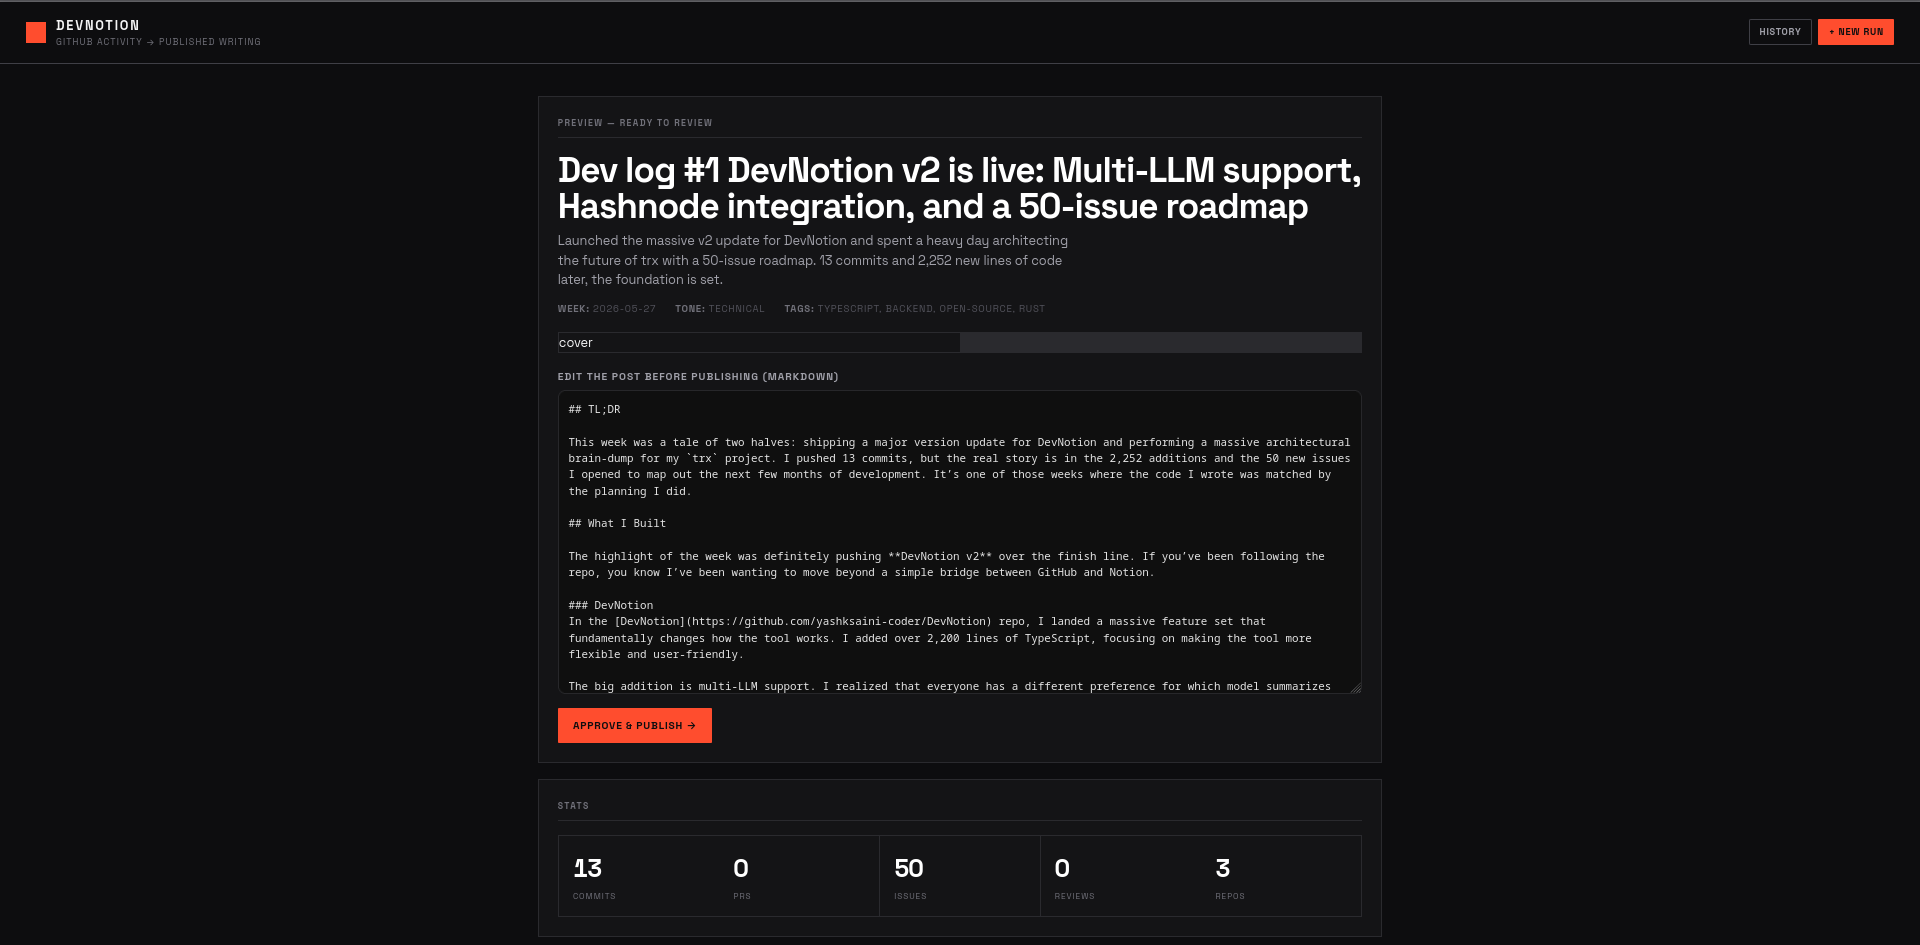
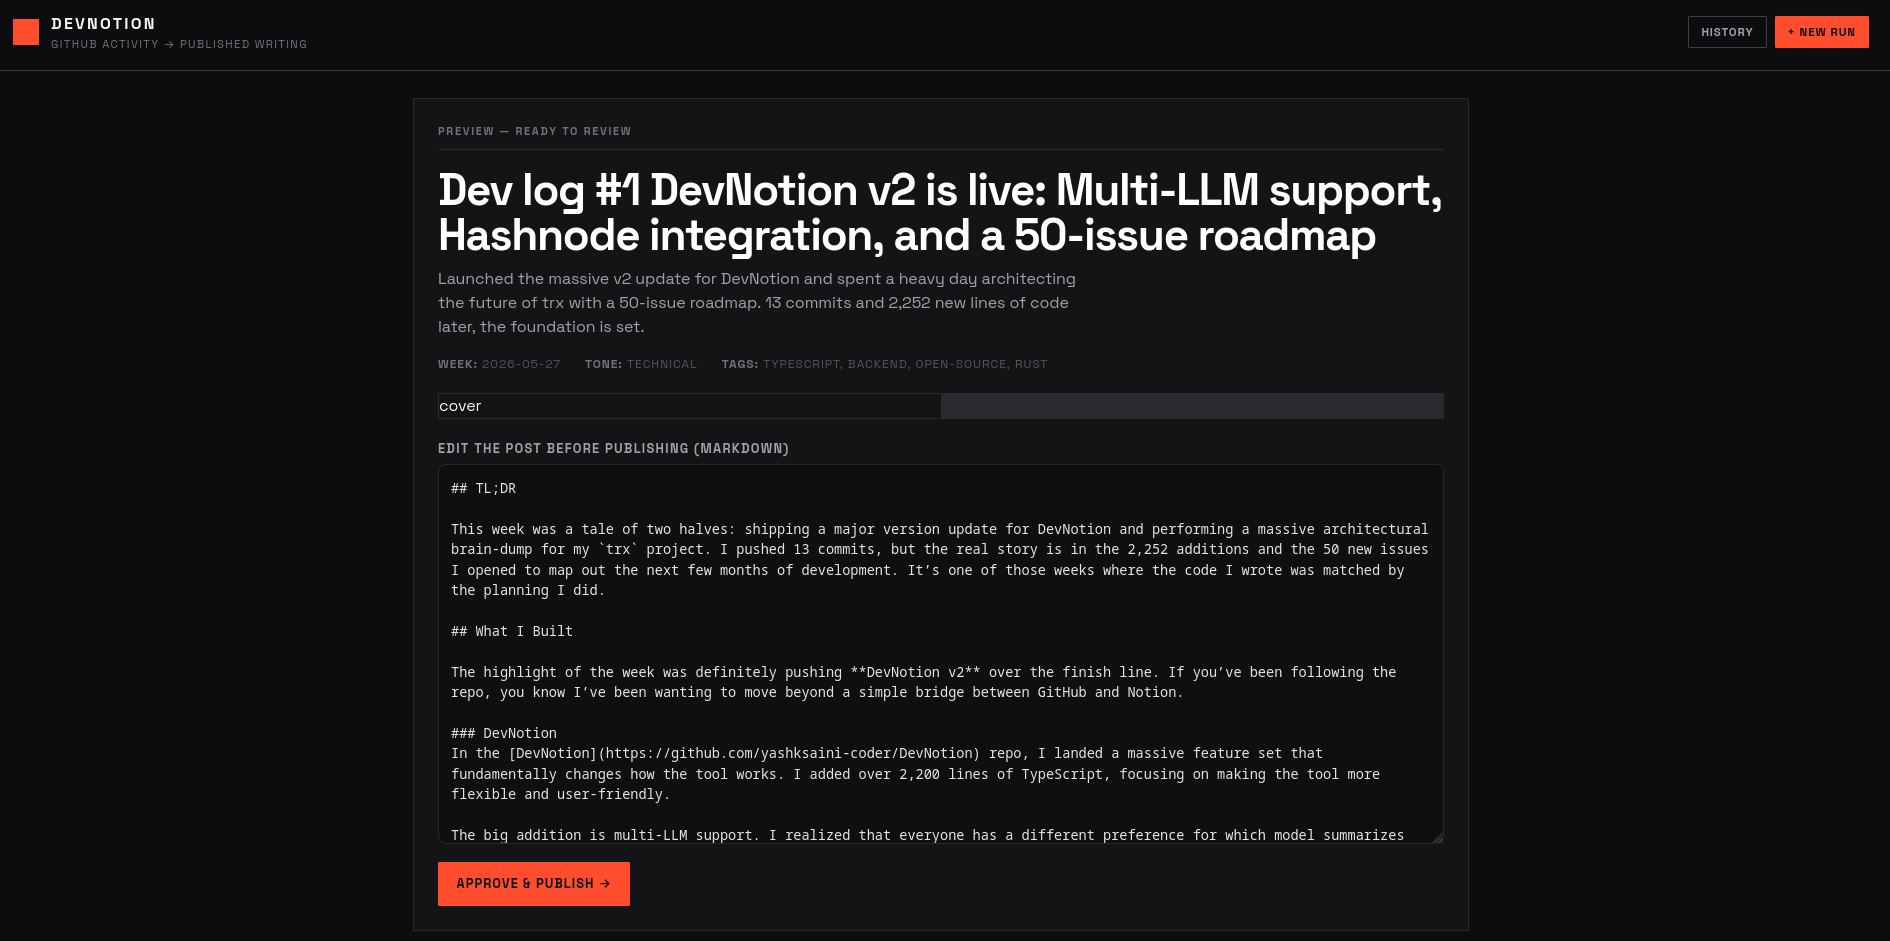
docs: update README with architecture diagram and remove mermaid flowchart; replace dashboard and edit-review images

diff --git a/README.md b/README.md
@@ -22,15 +22,7 @@ DevNotion is a [Mastra](https://mastra.ai) pipeline of specialist agents: it har
 
 Three specialist agents across a pipeline that is split so generation and publishing are decoupled — a failure or an unreviewed draft never reaches your readers.
 
-```mermaid
-flowchart TD
-    A["weekStart"] --> H["1 · Harvest Agent<br/>(deterministic · GitHub GraphQL)<br/>+ per-commit deltas, touched areas"]
-    H --> N["2 · Narrator Agent<br/>(gemini-3-flash-preview)<br/>fail-loud: error → run fails, nothing published"]
-    N --> I["Stats card<br/>(deterministic SVG → PNG · used as the cover)"]
-    I --> P["draft persisted"]
-    P --> G{"Approval gate<br/>(dashboard: preview · edit · approve)"}
-    G -->|approve| PUB["3 · Publisher Agent<br/>Notion · DEV.to · Hashnode<br/>+ author/social footer"]
-```
+![Architecture diagram](assets/Architecture.png)
 
 The pipeline only uses an LLM where it adds value (narration). Harvest, the stats card, and publishing are deterministic — no token overhead, no hallucinated numbers.
 